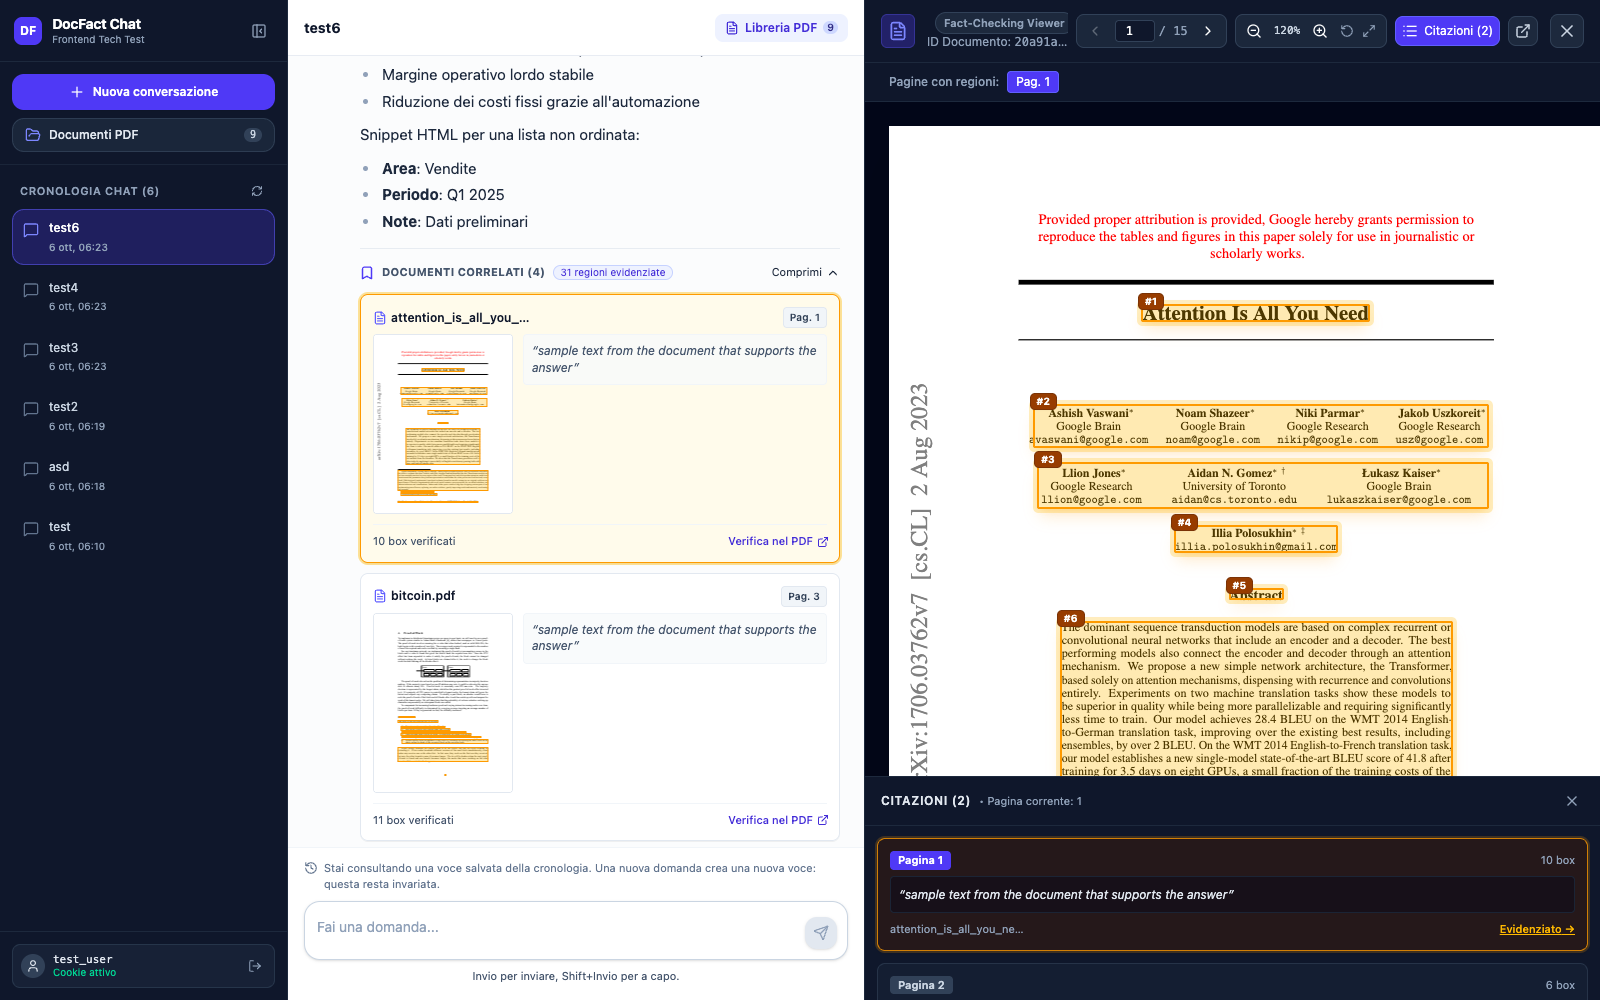
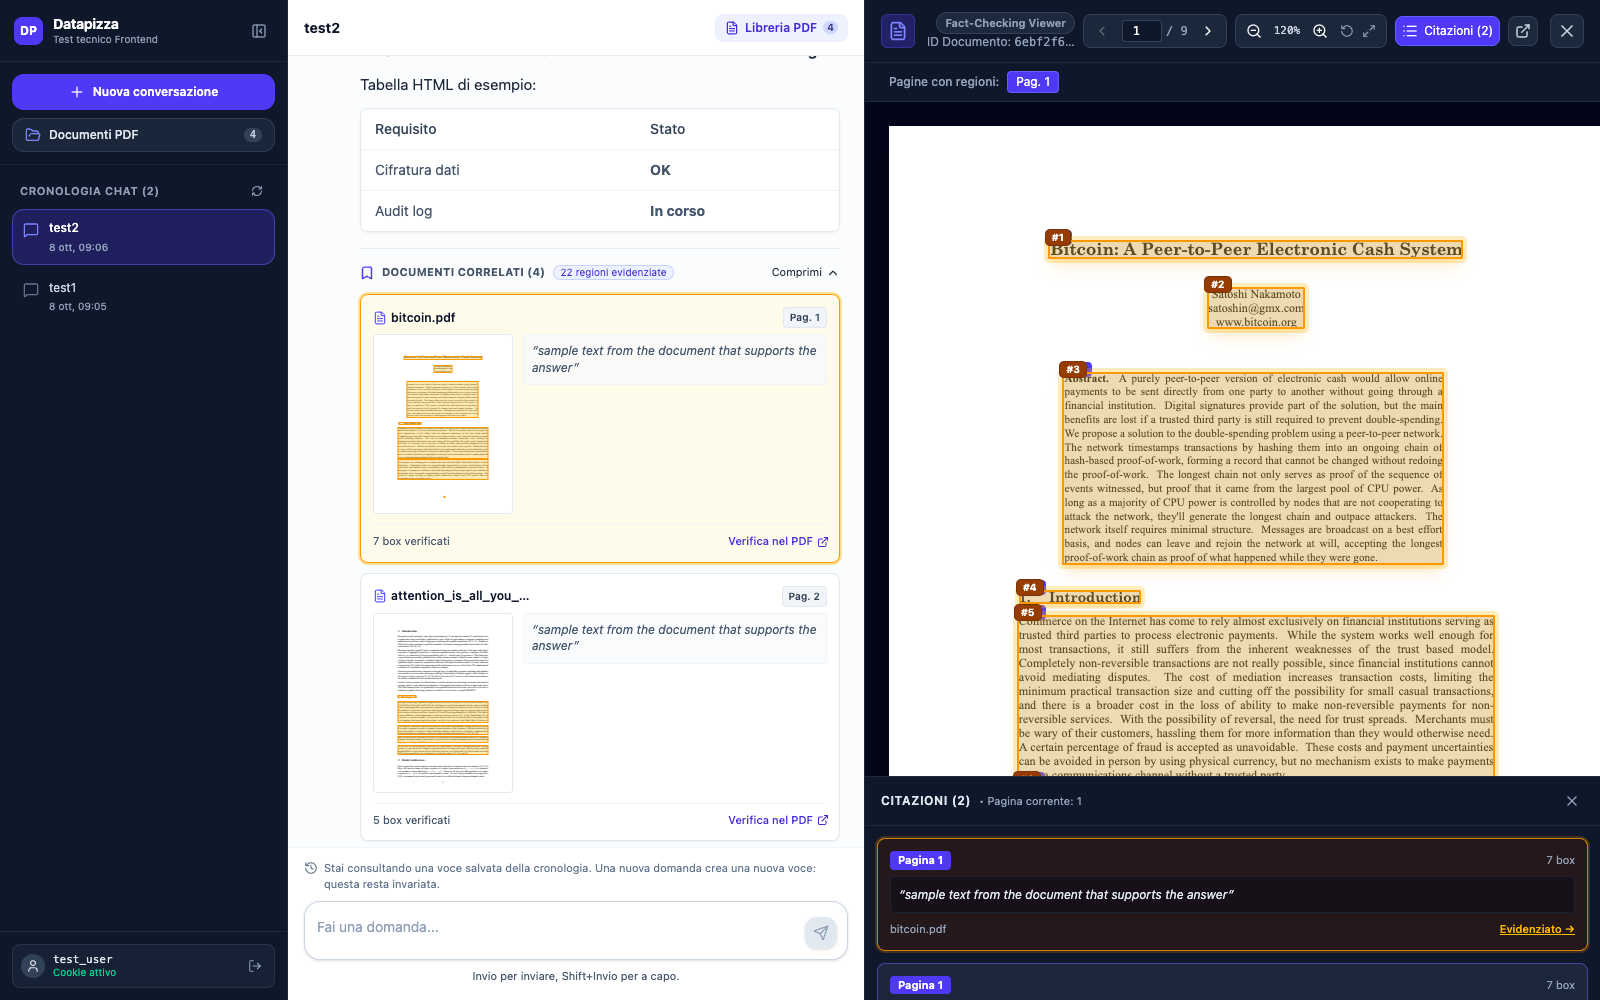
chore: progetto e interfaccia rinominati in Datapizza Frontend Test (T062)
Cosa fa:
- rinomina il pacchetto npm da ai-studio-applet (residuo dello scaffolding) a datapizza-frontend-test in package.json e package-lock.json
- cambia il titolo del README e della scheda del browser in "Datapizza — Test tecnico Frontend"
- sostituisce il nome di prodotto DocFact nell'interfaccia: login e benvenuto "Datapizza Frontend Test", sidebar "Datapizza" con sottotitolo "Test tecnico Frontend", sigla e favicon "DP"; la chiave docfact_auth_user_id resta invariata
- aggiorna i test che cercano il heading del login (integration p1-19 e smoke e2e) e lo screenshot del README

diff --git a/app/layout.tsx b/app/layout.tsx
@@ -2,16 +2,16 @@ import type {Metadata} from 'next';
 import './globals.css'; // Global styles
 
 export const metadata: Metadata = {
-  title: 'DocFact Chat & Citations',
+  title: 'Datapizza — Test tecnico Frontend',
   description: 'Document-grounded NDJSON streaming chat with PDF fact-checking and bounding region visualization.',
   openGraph: {
-    title: 'DocFact Chat & Citations',
+    title: 'Datapizza — Test tecnico Frontend',
     description: 'Document-grounded NDJSON streaming chat with PDF fact-checking and bounding region visualization.',
     type: 'website',
   },
   twitter: {
     card: 'summary_large_image',
-    title: 'DocFact Chat & Citations',
+    title: 'Datapizza — Test tecnico Frontend',
     description: 'Document-grounded NDJSON streaming chat with PDF fact-checking and bounding region visualization.',
   },
 };

diff --git a/src/features/history/components/ChatSidebar.tsx b/src/features/history/components/ChatSidebar.tsx
@@ -133,11 +133,11 @@ export function ChatSidebar({
         <div className="p-3.5 border-b border-slate-800 flex items-center justify-between">
           <div className="flex items-center gap-2.5">
             <div className="p-1.5 bg-indigo-600 text-white rounded-lg font-bold text-xs shadow-xs">
-              DF
+              DP
             </div>
             <div>
-              <h1 className="text-sm font-bold text-white tracking-tight">DocFact Chat</h1>
-              <span className="text-[10px] text-slate-400 block -mt-0.5">Frontend Tech Test</span>
+              <h1 className="text-sm font-bold text-white tracking-tight">Datapizza</h1>
+              <span className="text-[10px] text-slate-400 block -mt-0.5">Test tecnico Frontend</span>
             </div>
           </div>
           <button

diff --git a/src/features/auth/components/LoginForm.tsx b/src/features/auth/components/LoginForm.tsx
@@ -47,7 +47,7 @@ export function LoginForm({ onLoginSuccess, notice }: LoginFormProps) {
           <div className="inline-flex p-3 bg-indigo-600 text-white rounded-2xl shadow-xl shadow-indigo-600/30 mb-4 ring-4 ring-indigo-500/20">
             <FileCheck2 className="w-8 h-8" />
           </div>
-          <h1 className="text-2xl font-bold text-white tracking-tight">DocFact Assistant</h1>
+          <h1 className="text-2xl font-bold text-white tracking-tight">Datapizza Frontend Test</h1>
           <p className="text-sm text-slate-400 mt-1.5 max-w-xs mx-auto">
             Fai domande sui tuoi PDF e verifica le risposte sulle fonti.
           </p>

diff --git a/src/features/chat/components/WelcomePanel.tsx b/src/features/chat/components/WelcomePanel.tsx
@@ -18,7 +18,7 @@ export function WelcomePanel({ onOpenDocuments, onAskQuestion }: WelcomePanelPro
         <Sparkles className="w-8 h-8" />
       </div>
       <h2 className="text-xl font-bold text-slate-900 dark:text-slate-100 tracking-tight">
-        Benvenuto in DocFact Assistant
+        Benvenuto in Datapizza Frontend Test
       </h2>
       <p className="text-sm text-slate-500 dark:text-slate-400 mt-2 max-w-md mx-auto leading-relaxed">
         Fai una domanda sui tuoi documenti PDF: le risposte riportano le fonti e mostrano il punto esatto nel documento.

diff --git a/tests/integration/p1-19-login-subtitle.test.tsx b/tests/integration/p1-19-login-subtitle.test.tsx
@@ -5,7 +5,7 @@ import { LoginForm } from '@/src/features/auth/components/LoginForm';
 describe('LoginForm subtitle (P1-19)', () => {
   it('shows a plain Italian subtitle right after the heading', () => {
     render(<LoginForm onLoginSuccess={vi.fn()} />);
-    const heading = screen.getByRole('heading', { name: 'DocFact Assistant' });
+    const heading = screen.getByRole('heading', { name: 'Datapizza Frontend Test' });
     const subtitle = heading.nextElementSibling;
     expect(subtitle?.tagName).toBe('P');
     expect(subtitle?.textContent?.trim()).toBe(

diff --git a/e2e/smoke.spec.ts b/e2e/smoke.spec.ts
@@ -3,7 +3,7 @@ import { test, expect } from '@playwright/test';
 test('login page is visible', async ({ page }) => {
   await page.goto('/');
   await expect(
-    page.getByRole('heading', { name: 'DocFact Assistant' })
+    page.getByRole('heading', { name: 'Datapizza Frontend Test' })
   ).toBeVisible();
   await expect(page.locator('#user_id')).toBeVisible();
 });

diff --git a/README.md b/README.md
@@ -1,4 +1,4 @@
-# DocFact Chat & Citations
+# Datapizza — Test tecnico Frontend
 
 Interfaccia web per fare domande a un backend che risponde in streaming sui documenti PDF caricati.
 Le risposte arrivano in Markdown con HTML inline sanitizzato. Ogni citazione si apre in un viewer PDF con le regioni evidenziate.
